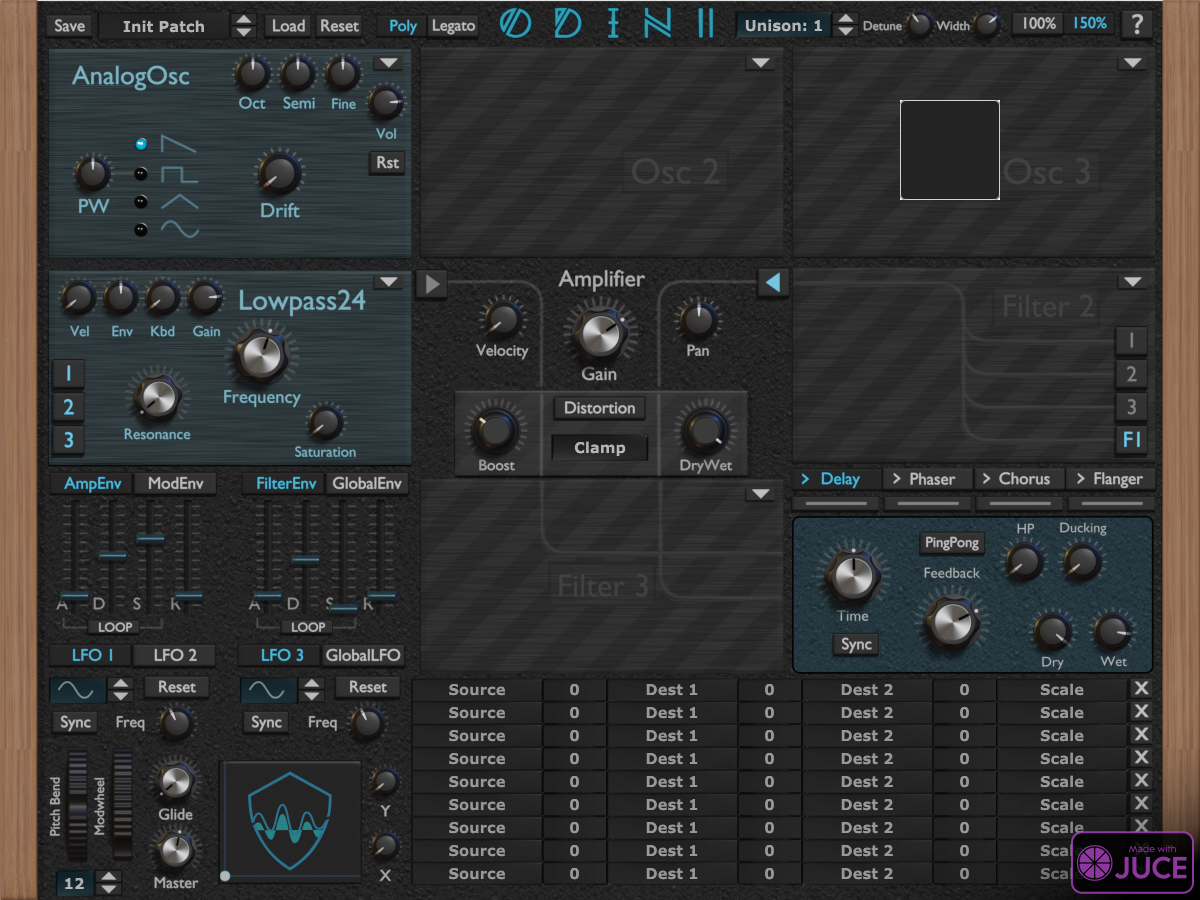
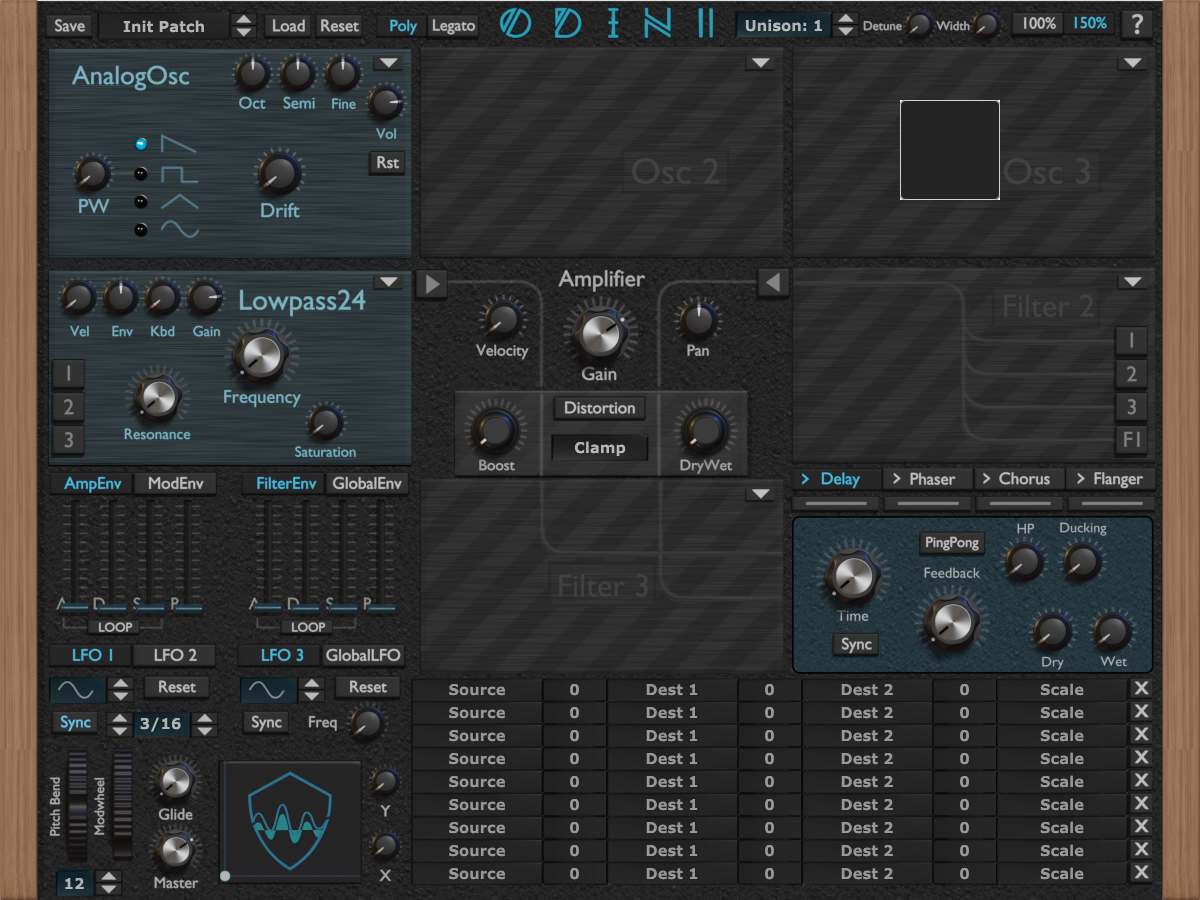
fixed LFO-sync button having wrong state on GUI open

diff --git a/Source/LFOComponent.cpp b/Source/LFOComponent.cpp
@@ -141,10 +141,11 @@ void LFOComponent::forceValueTreeOntoComponents(ValueTree p_tree) {
 
 	m_sync_time.setValues(m_value_tree.state.getChildWithName("lfo")[m_lfo_synctime_numerator_identifier],
 	                      m_value_tree.state.getChildWithName("lfo")[m_lfo_synctime_denominator_identifier]);
-	setSync((float)GETAUDIO("lfo" + m_lfo_number + "_sync") > 0.5f);
+	//setSync((float)GETAUDIO("lfo" + m_lfo_number + "_sync") > 0.5f);
 	setSync((float)m_value_tree.state.getChildWithName("lfo")[(Identifier)("lfo" + m_lfo_number + "_sync")] > 0.5f);
 	//send change message to set member in processor
-	m_value_tree.state.getChildWithName("fx").sendPropertyChangeMessage((Identifier)("lfo" + m_lfo_number + "_sync"));
+	//m_value_tree.state.getChildWithName("fx").sendPropertyChangeMessage((Identifier)("lfo" + m_lfo_number + "_sync"));
+	m_sync.setToggleState((float)m_value_tree.state.getChildWithName("lfo")[(Identifier)("lfo" + m_lfo_number + "_sync")] > 0.5f, dontSendNotification);
 }
 
 void LFOComponent::setGUIBig() {
